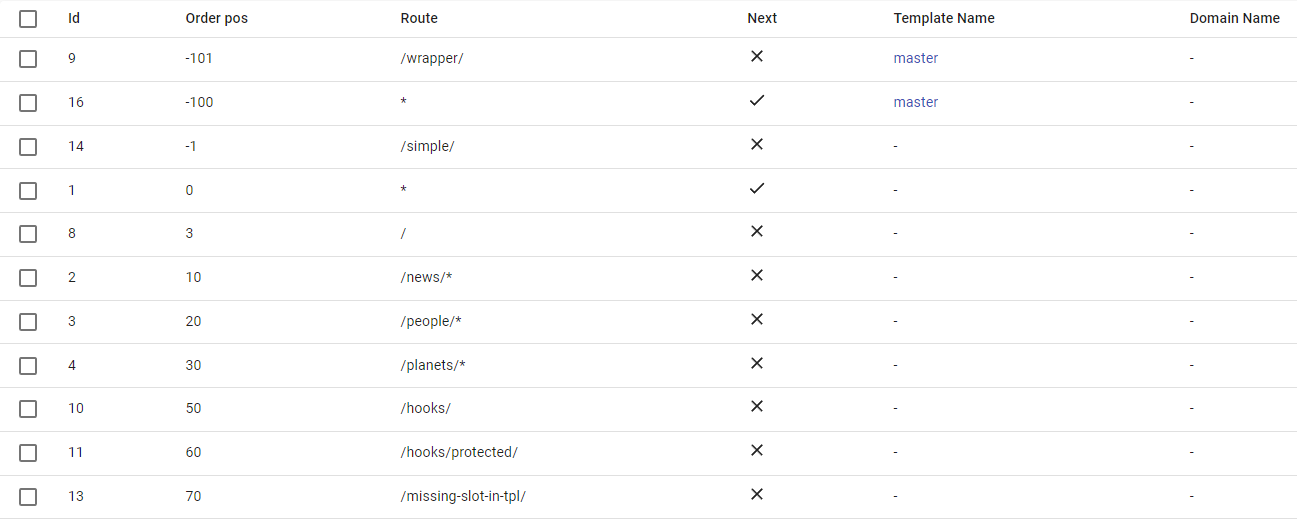
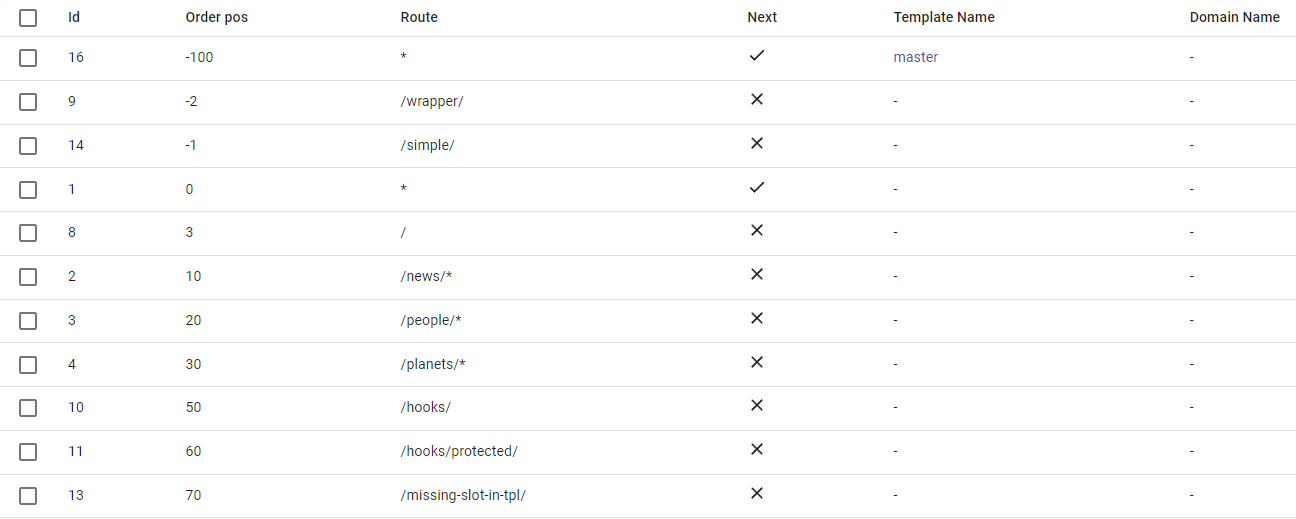
some fix

diff --git a/README.md b/README.md
@@ -33,24 +33,24 @@
 
 ## Examples:
 
-- Suppose we need to render the page without `navbar`, in this case, we need to set the` Order pos` for this route less than that of `navbar`, in our case `navbar` has `Order pos -100`, set our route accordingly (let this will be `/wrapper/`) `Order pos -101` and set `Next` field to `false` value. So ILC will start with the application with the lowest value of `Order pos`, in this case it is `-101`, because its route match it will be rendered, and the `Next` field is set to `false`, so the ILC will not look for matches further, so only one application will be rendered for us.
-
-![ILC registry first example](./assets/route2.png)
-
-**Result:**
-
-![ILC registry first example result](./assets/first-case-result.png)
-
-#
-
-- Now let's change back value `Order pos` of `/wrapper/` to `40` as in the screenshot below, and again try to enter the `/wrapper/` route, ILC will start from the application with the lowest `Order pos` value,
+- Let's try to enter the `/wrapper/` route, ILC will start from the application with the lowest `Order pos` value,
 in this case it is `-100`, because its route is `*` it will be rendered, and since the `Next` field is set to `true` ILC will go further along the order, `Order pos -1` **will not be rendered** because the `/simple/` route does not match the given one, we move further to position `0`, render this application because its route `*` and move on, because the `Next` field is set to `true`, next few applications will not be rendered, because their route does not match the specified one, until we reach the position `40`, its route exactly matches the specified one, the application will be rendered, and because `Next` is set to the value `false` ILС will not look for matches further. In total, we will render 3 applications, both routes `*` and route `/wrapper/`.
 
 ![ILC registry second example](./assets/route.png)
 
 **Result:**
 
-![ILC registry second example result](./assets/second-case-result.png)
+![ILC registry second example result](./assets/first-case-result.png)
+
+#
+
+- Now suppose we need to render the page without app with `Order pos 0` and route `*` but with `navbar`, in this case, we need to set the `Order pos` for this route less than `0` but more than `-100` because it's `navbar` position, so set our route (let this will be `/wrapper/`) accordingly `Order pos -2` and set `Next` field to `false` value. So ILC will start with the application with the lowest value of `Order pos`, it is `-100`, because it's route `*` it will be rendered, and the `Next` field is set to `true`, so the ILC will look for matches further, next one will be `Order pos -2` it's match and it will be rendered, `Next` value set to false, so ILС will not look for matches further.
+
+![ILC registry first example](./assets/route2.png)
+
+**Result:**
+
+![ILC registry first example result](./assets/second-case-result.png)
 
 #
 
@@ -62,7 +62,9 @@ in this case it is `-100`, because its route is `*` it will be rendered, and sin
 
 #
 
-- And the last example, let's go to the route `/wrapper/blablabla/` route, we will render [Error](https://github.com/namecheap/ilc/blob/master/docs/global_errors_handling.md#404-error-not-found), because the specified route does not exactly match our routes, аnd all other routes (like `*`) will be ignored (in this case `navbar` it's part of [Error](https://github.com/namecheap/ilc/blob/master/docs/global_errors_handling.md#404-error-not-found), **not** our route `*` with `Order pos - 100`).
+- Let's change back `Order pos` of `wrapper` to `40` and go to the `/wrapper/blablabla/` route, we will render [Error](https://github.com/namecheap/ilc/blob/master/docs/global_errors_handling.md#404-error-not-found), because the specified route does not exactly match our routes, аnd all other routes (like `*`) will be ignored (in this case `navbar` it's part of [Error](https://github.com/namecheap/ilc/blob/master/docs/global_errors_handling.md#404-error-not-found), **not** our route `*` with `Order pos - 100`).
+
+![ILC registry second example](./assets/route.png)
 
 **Result:**
 
